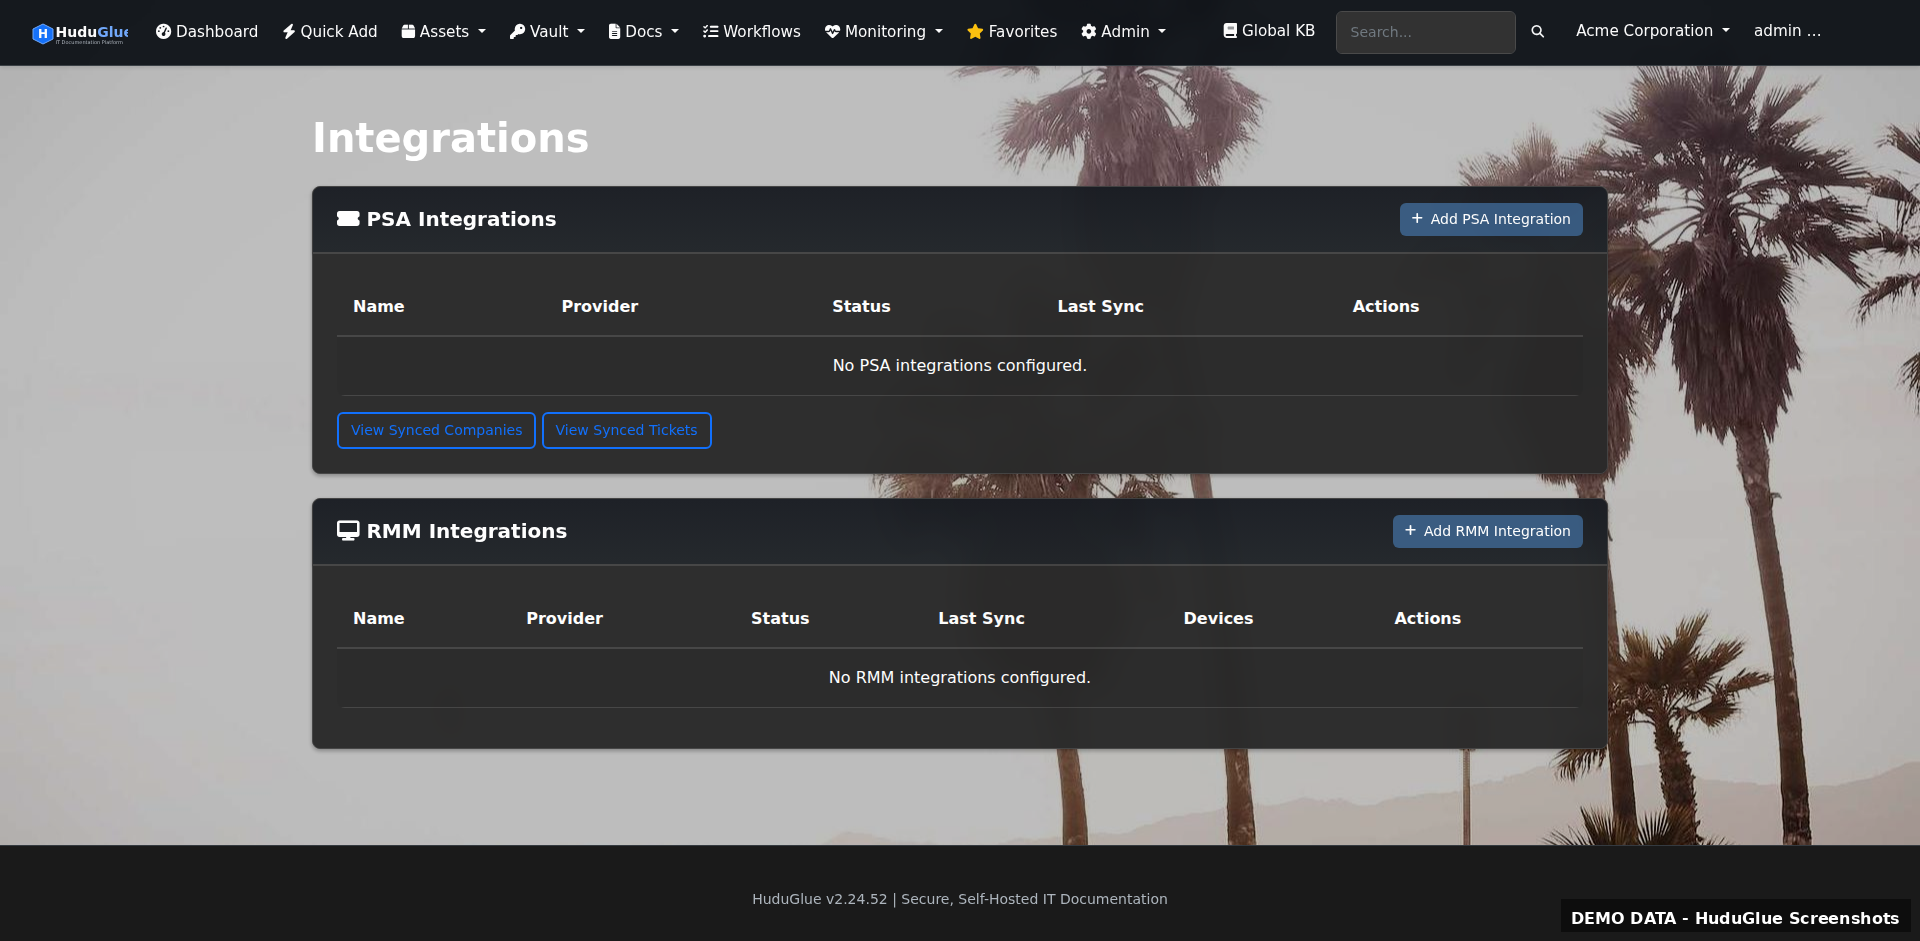
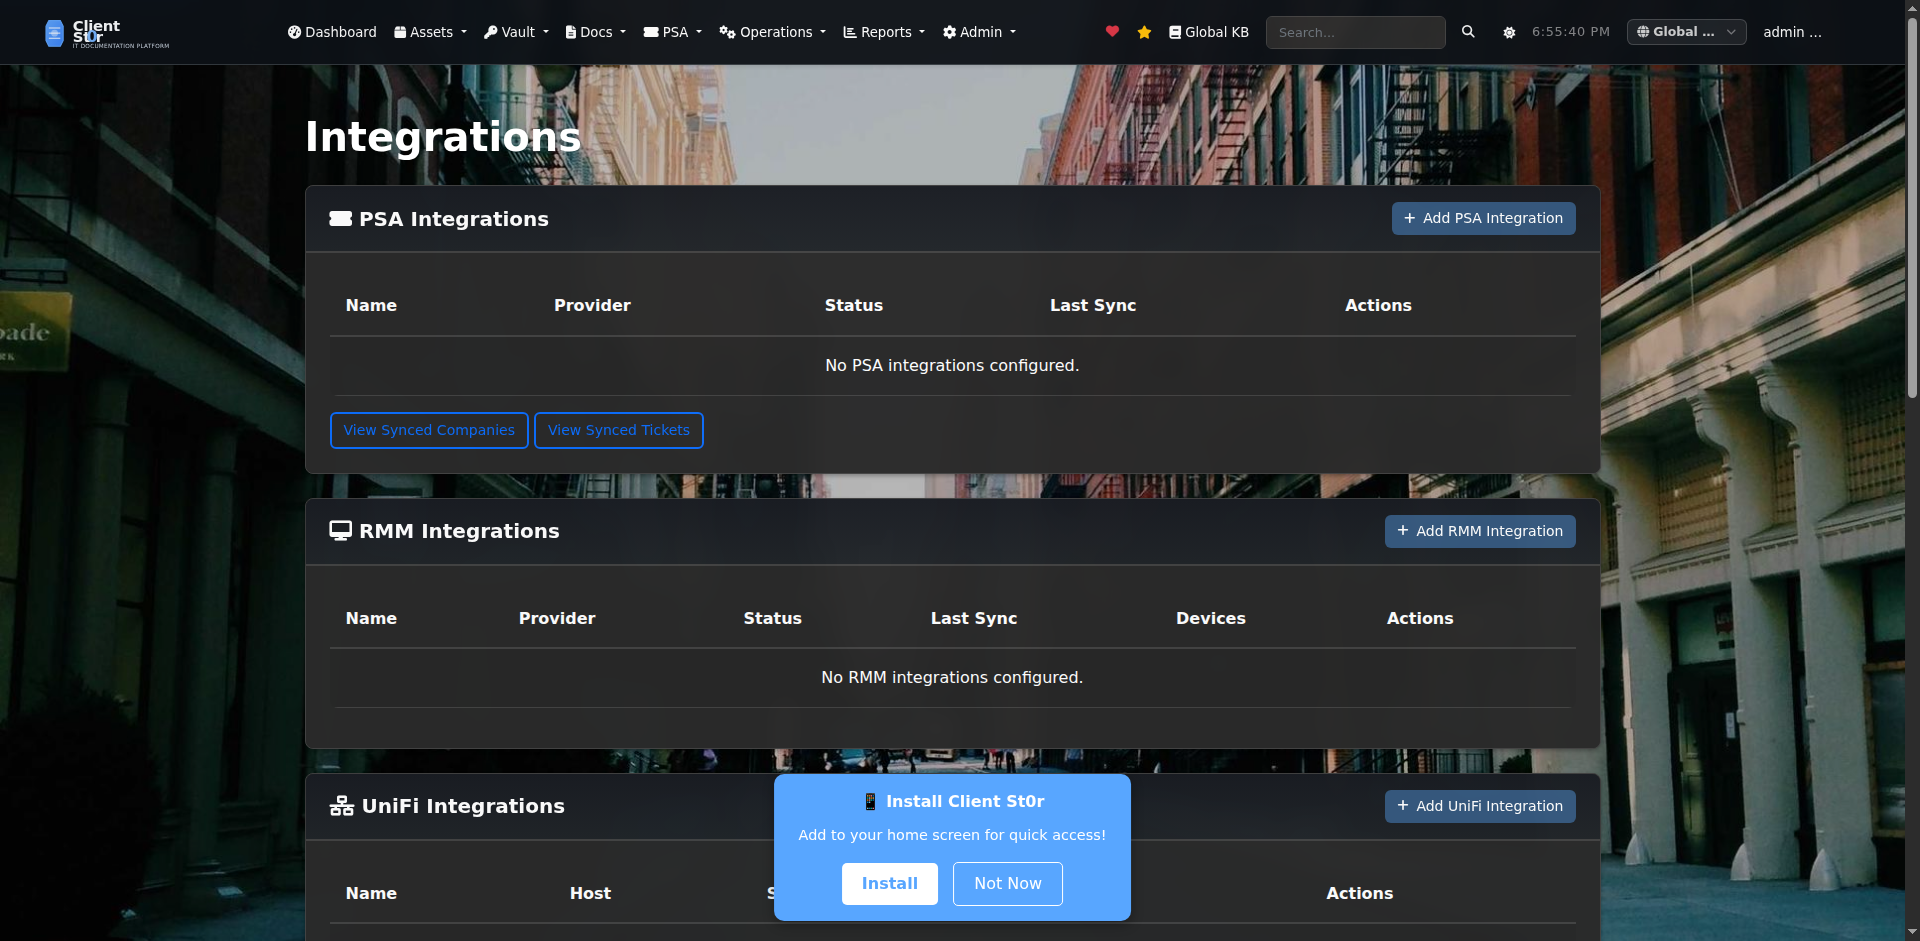
PSA screenshots captured (28 new) + kb_browse 500 fix (v3.17.103)
* Captured 28 PSA screenshots via headless Chromium + Selenium with
  an injected Django session, against the live dev server with seeded
  demo data (ACME / Globex / Initech / Demo MSP):
  - tickets / ticket detail / new ticket / service catalog
  - projects / project detail (ACME M365 migration with tasks)
  - recurring / recurring form / approvals
  - contracts / contract SLA matrix editor
  - quotes / quote detail / quote form
  - customer e-sign canvas (Q-2026-00003)
  - branded quote PDF + branded invoice PDF
  - invoices / invoice detail / invoice form
  - client account view (balance / aging / charges / payments)
  - aging report
  - dispatch board / workflow rules / workflow rule form
  - email-to-ticket
  - distributors / accounting (QBO + Xero) / organizations
* README PSA section gets 15 inline images and the screenshot index
  links all 28 new captures.
* templates/psa/kb_browse.html was reversing 'docs:document_view'
  which doesn't exist (it's 'docs:document_detail' and takes slug,
  not pk) — that caused a 500 on /psa/kb/. Fixed.

Capture script lives at /home/administrator/snap/chromium/common/shoot.py
on the dev server. Re-run after layout changes; outputs to
~/snap/chromium/common/shots/ then copy to docs/screenshots/.

diff --git a/templates/psa/kb_browse.html b/templates/psa/kb_browse.html
@@ -25,7 +25,7 @@
             <tbody>
                 {% for a in articles %}
                 <tr>
-                    <td><a href="{% url 'docs:document_view' a.pk %}"><strong>{{ a.title }}</strong></a></td>
+                    <td><a href="{% url 'docs:document_detail' a.slug %}"><strong>{{ a.title }}</strong></a></td>
                     <td><span data-utc="{{ a.updated_at|date:'c' }}">{{ a.updated_at|date:'Y-m-d' }}</span></td>
                     <td>{% if a.author %}{{ a.author.username }}{% else %}—{% endif %}</td>
                 </tr>

diff --git a/config/version.py b/config/version.py
@@ -2,11 +2,11 @@
 Version information for Client St0r
 """
 
-VERSION = '3.17.102'
+VERSION = '3.17.103'
 VERSION_INFO = {
     'major': 3,
     'minor': 17,
-    'patch': 102,
+    'patch': 103,
     'status': 'stable',  # alpha, beta, rc, stable
 }
 

diff --git a/README.md b/README.md
@@ -121,7 +121,21 @@ Client St0r is commonly evaluated as an **open-source IT Glue alternative** and 
 ![PWA Phone Shortcut](docs/screenshots/pwa-shortcut.png)
 
 ### 🎫 Native PSA / Service Desk *(v3.17 — 11 phases)*
-*Screenshots pending — see [SCREENSHOT_CHECKLIST.md](docs/SCREENSHOT_CHECKLIST.md) for what to capture.*
+![PSA — Tickets](docs/screenshots/psa-tickets.png)
+![PSA — Ticket detail](docs/screenshots/psa-ticket-detail.png)
+![PSA — Client account](docs/screenshots/psa-client-account.png)
+![PSA — Aging report](docs/screenshots/psa-aging.png)
+![PSA — Quote detail](docs/screenshots/psa-quote-detail.png)
+![PSA — Quote PDF](docs/screenshots/psa-pdf-quote.png)
+![PSA — Customer signature](docs/screenshots/psa-quote-sign.png)
+![PSA — Invoice detail](docs/screenshots/psa-invoice-detail.png)
+![PSA — Invoice PDF](docs/screenshots/psa-pdf-invoice.png)
+![PSA — Dispatch board](docs/screenshots/psa-dispatch.png)
+![PSA — Workflow rules](docs/screenshots/psa-workflow-rules.png)
+![PSA — Project + tasks](docs/screenshots/psa-project-detail.png)
+![PSA — Contract SLA matrix](docs/screenshots/psa-contract-form.png)
+![Distributors — Ingram / Pax8 / Synnex](docs/screenshots/integrations-distributors.png)
+![Accounting — QuickBooks / Xero](docs/screenshots/integrations-accounting.png)
 
 A complete in-house ticketing system. Tickets, queues, statuses, priorities, SLA targets with per-contract overrides, time tracking, service catalog with structured fields, watchers, canned replies, @mentions, similar-tickets detection, ticket merge, projects with tasks/milestones, recurring tickets, KB linking, approvals, contracts (block-hours / retainer / managed-services with auto-tracked usage), quotes & estimates with line items and **e-signature for customers**, per-ticket expenses, invoices (auto-numbered with branded PDF + email + accounting push), payments, **client account view with aging report**, charges (one-time + recurring), workflow rules engine, dispatch board, customer portal, IMAP email-to-ticket, distributor catalog/pricing/orders (Ingram Micro, Pax8, TD Synnex), QuickBooks Online + Xero accounting integrations, AI-assisted reply/action suggestions with strict guardrails.
 
@@ -160,28 +174,26 @@ A complete in-house ticketing system. Tickets, queues, statuses, priorities, SLA
 - [Workflows](docs/screenshots/workflows.png) - Process automation and tracking
 
 ### Native PSA / Service Desk
-*Screenshot files not yet captured — see [SCREENSHOT_CHECKLIST.md](docs/SCREENSHOT_CHECKLIST.md). Pages live and ready for capture:*
-- `psa-tickets.png` — Ticket list with priority pills and SLA chips (`/psa/`)
-- `psa-ticket-detail.png` — Ticket detail with vault context, time tracker, expenses, AI Assist, similar tickets
-- `psa-new-ticket.png` — New-ticket form with client picker and structured catalog fields (`/psa/new/`)
-- `psa-service-catalog.png` — Service catalog grid (`/psa/catalog/`)
-- `psa-projects.png` / `psa-project-detail.png` — Projects + tasks/milestones (`/psa/projects/`)
-- `psa-recurring.png` — Recurring tickets / preventive maintenance (`/psa/recurring/`)
-- `psa-kb.png` — Knowledge Base browser (`/psa/kb/`)
-- `psa-approvals.png` — Generic manager-approval queue (`/psa/approvals/`)
-- `psa-contracts.png` / `psa-contract-form.png` — Contracts list and per-priority SLA matrix editor (`/psa/contracts/`)
-- `psa-quotes.png` / `psa-quote-detail.png` — Quotes list + e-sign URL button + quote detail with PDF/Email
-- `psa-quote-sign.png` — Customer-facing quote signature canvas (`/portal/quote/<token>/sign/`)
-- `psa-invoices.png` / `psa-invoice-detail.png` — Invoices list and detail with payments + accounting push
-- `psa-pdf-quote.png` / `psa-pdf-invoice.png` — Branded ReportLab PDFs with logo header
-- `psa-client-account.png` — Per-client balance, aging buckets, charges, payments, unbilled time/expenses
-- `psa-aging.png` — Cross-client aging report (`/psa/aging/`)
-- `psa-dispatch.png` — Weekly dispatch board (`/psa/dispatch/`)
-- `psa-workflow-rules.png` / `psa-workflow-rule-form.png` — Workflow rules with JSON DSL
-- `psa-email-config.png` — IMAP email-to-ticket configuration (`/psa/email-configs/`)
-- `psa-portal.png` / `psa-portal-detail.png` — Customer portal ticket list + detail (`/portal/`)
-- `psa-ai-inbox.png` — AI Suggested Replies + Actions inbox (`/psa/ai/`)
-- `integrations-distributors.png` / `integrations-accounting.png` — Distributor + accounting (QBO/Xero) connection management
+- [Tickets list](docs/screenshots/psa-tickets.png) - PSA dashboard with priority pills and SLA chips
+- [Ticket detail](docs/screenshots/psa-ticket-detail.png) - vault context, time tracker, expenses, AI Assist, similar tickets
+- [New ticket](docs/screenshots/psa-new-ticket.png) - Client-scoped ticket creation
+- [Service catalog](docs/screenshots/psa-service-catalog.png) - Templated service requests
+- [Projects](docs/screenshots/psa-projects.png) / [Project detail](docs/screenshots/psa-project-detail.png) - Tasks and milestones
+- [Recurring tickets](docs/screenshots/psa-recurring.png) / [Recurring form](docs/screenshots/psa-recurring-form.png) - Preventive maintenance schedules
+- [Approvals](docs/screenshots/psa-approvals.png) - Manager approval queue
+- [Contracts](docs/screenshots/psa-contracts.png) / [SLA matrix editor](docs/screenshots/psa-contract-form.png) - Per-priority SLA overrides
+- [Quotes](docs/screenshots/psa-quotes.png) / [Quote detail](docs/screenshots/psa-quote-detail.png) / [Quote form](docs/screenshots/psa-quote-form.png) - Estimate workflow
+- [Customer e-signature](docs/screenshots/psa-quote-sign.png) - Drawing canvas + accept flow
+- [Quote PDF](docs/screenshots/psa-pdf-quote.png) - Branded ReportLab output
+- [Invoices](docs/screenshots/psa-invoices.png) / [Invoice detail](docs/screenshots/psa-invoice-detail.png) / [Invoice form](docs/screenshots/psa-invoice-form.png) - Billing pipeline
+- [Invoice PDF](docs/screenshots/psa-pdf-invoice.png) - Branded ReportLab output
+- [Client account view](docs/screenshots/psa-client-account.png) - Net balance, aging, charges, payments, unbilled
+- [Aging report](docs/screenshots/psa-aging.png) - Cross-client outstanding by age bucket
+- [Dispatch board](docs/screenshots/psa-dispatch.png) - 7-day grid + Other column
+- [Workflow rules](docs/screenshots/psa-workflow-rules.png) / [Rule form](docs/screenshots/psa-workflow-rule-form.png) - JSON DSL automation
+- [Email-to-ticket](docs/screenshots/psa-email-config.png) - IMAP mailbox configuration
+- [Distributors](docs/screenshots/integrations-distributors.png) - Ingram Micro, Pax8, TD Synnex
+- [Accounting](docs/screenshots/integrations-accounting.png) - QuickBooks Online + Xero OAuth
 
 ### Monitoring & Expirations
 - [Website Monitors](docs/screenshots/website-monitors.png) - Uptime monitoring dashboard

diff --git a/CHANGELOG.md b/CHANGELOG.md
@@ -5,6 +5,16 @@ All notable changes to Client St0r will be documented in this file.
 The format is based on [Keep a Changelog](https://keepachangelog.com/en/1.0.0/),
 and this project adheres to [Semantic Versioning](https://semver.org/spec/v2.0.0.html).
 
+## [3.17.103] - 2026-04-28
+
+### Docs — 28 PSA screenshots captured
+Added 28 new screenshots to `docs/screenshots/` covering the entire PSA module. Captures include tickets / ticket detail / new ticket / service catalog / projects / project detail / recurring / recurring form / approvals / contracts / contract SLA matrix editor / quotes / quote detail / quote form / **customer e-sign canvas** / **branded quote PDF** / invoices / invoice detail / invoice form / **branded invoice PDF** / **client account view (balance + aging + charges)** / aging report / dispatch board / workflow rules / workflow rule form / email-to-ticket / distributors / accounting (QBO + Xero) / organizations.
+
+README's PSA section shows 15 inline images and the screenshot index lists every new capture with deep-link descriptions. Captures were taken via headless Chromium + Selenium with an injected Django session against the live dev server, using the seeded demo data (ACME Industries / Globex / Initech / Demo MSP).
+
+### Fixed
+- `templates/psa/kb_browse.html` was reversing a non-existent `docs:document_view` URL → 500 on `/psa/kb/`. Fixed to `docs:document_detail` (the actual URL name; uses slug not pk).
+
 ## [3.17.102] - 2026-04-28
 
 ### Docs